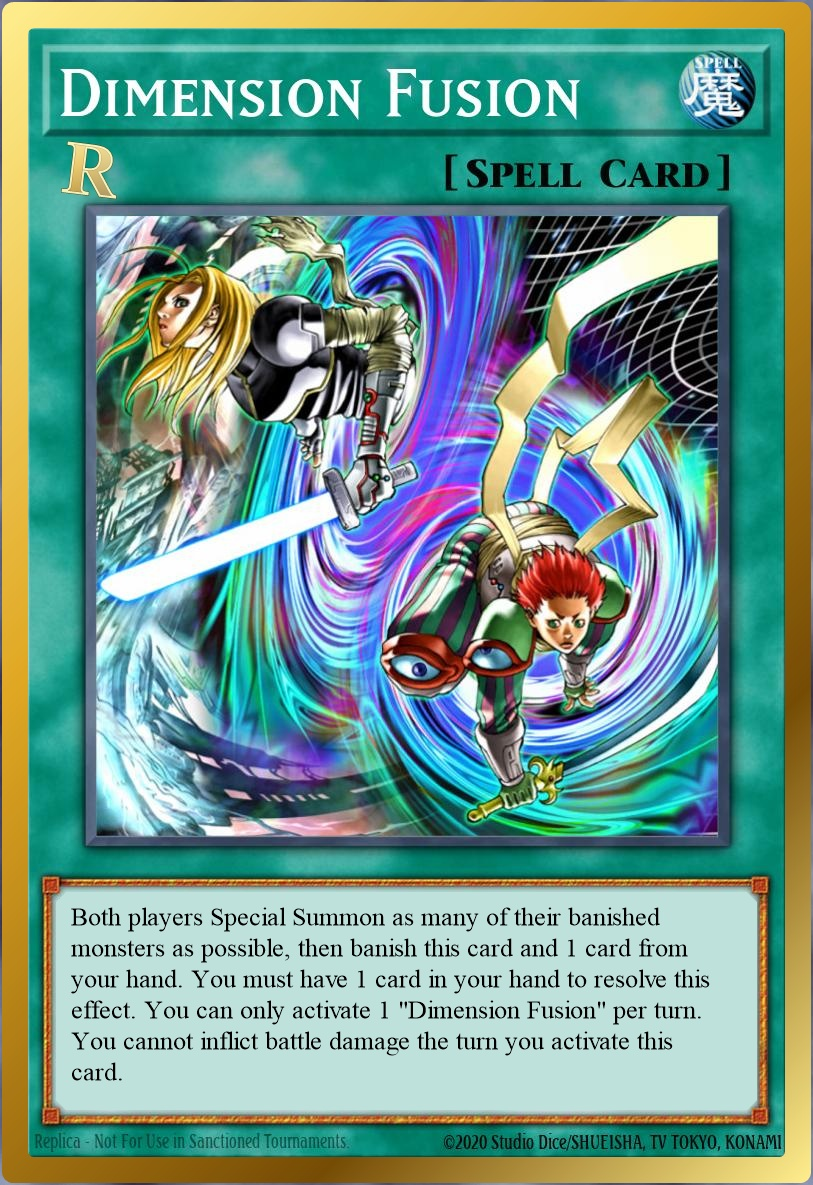
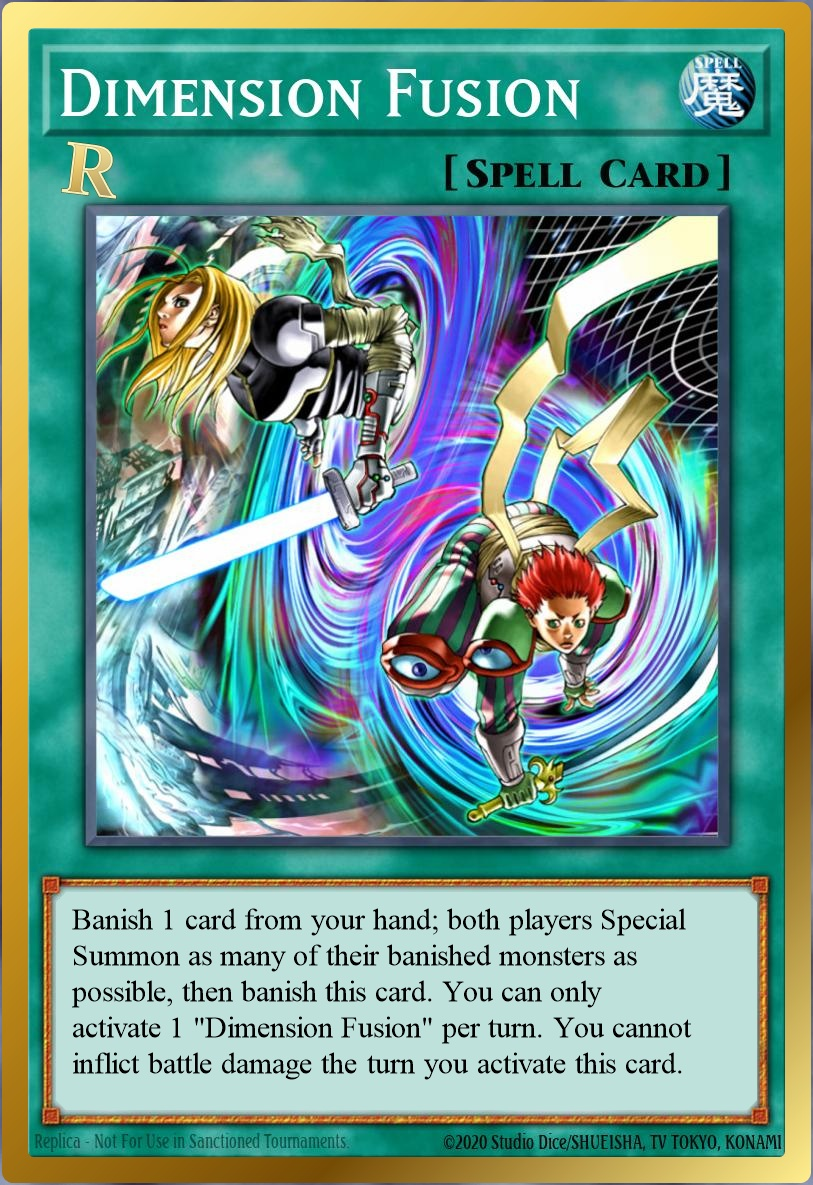
dimension Fusion rework #3

Changed region(s): [[0.0923, 0.7494, 0.861, 0.9367]]

diff --git a/Redux/scripts/build-cards-cdb.js b/Redux/scripts/build-cards-cdb.js
@@ -94,7 +94,7 @@ module.exports = function buildCardsDb({ reduxRoot }) {
   const dimensionFusionTextResult = db
     .prepare("UPDATE texts SET desc = ?, str1 = ? WHERE id = ?")
     .run(
-      'Both players Special Summon as many of their banished monsters as possible, then banish this card and 1 card from your hand. You must have 1 card in your hand to resolve this effect. You can only activate 1 "Dimension Fusion" per turn. You cannot inflict battle damage the turn you activate this card.',
+      'Banish 1 card from your hand; both players Special Summon as many of their banished monsters as possible, then banish this card. You can only activate 1 "Dimension Fusion" per turn. You cannot inflict battle damage the turn you activate this card.',
       "You cannot inflict battle damage this turn",
       23557835,
     );

diff --git a/README.md b/README.md
@@ -52,7 +52,7 @@ Redux Limits: `0` = forbidden; `1` = limited; `2` = semi-limited; `3` = unlimite
 | `1` [Trishula, Dragon of the Ice Barrier](https://yugioh.fandom.com/wiki/Trishula,_Dragon_of_the_Ice_Barrier) | ⬇ Once per turn |
 | `1` [Yata-Garasu](https://yugioh.fandom.com/wiki/Yata-Garasu) | ⬇ Skips Draw Phase unless opponent has 1 or fewer cards in hand |
 | `2` [Graceful Charity](https://yugioh.fandom.com/wiki/Graceful_Charity) | ⬇ Draw 3; banish 3 |
-| `2` [Dimension Fusion](https://yugioh.fandom.com/wiki/Dimension_Fusion) | 🔄 Once per turn; banishes itself and 1 hand card; no battle damage |
+| `2` [Dimension Fusion](https://yugioh.fandom.com/wiki/Dimension_Fusion) | 🔄 Once per turn; banishes 1 hand card as cost; banishes itself; no battle damage |
 | `2` [Monster Reborn](https://yugioh.fandom.com/wiki/Monster_Reborn) | ⬇ Discard 1; becomes Equip Spell; destroys revived monster if it leaves |
 | `2` [Sangan](https://yugioh.fandom.com/wiki/Sangan) | ⬇ Once per turn |
 | `2` [Skill Drain](https://yugioh.fandom.com/wiki/Skill_Drain) | ⬆ No LP cost |
